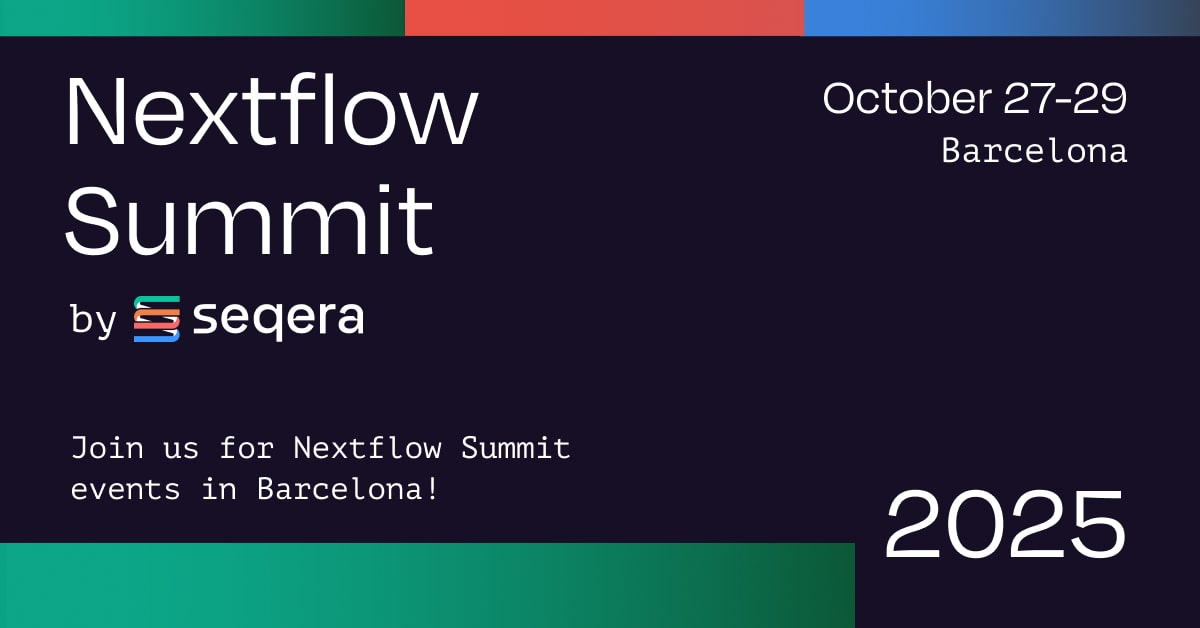
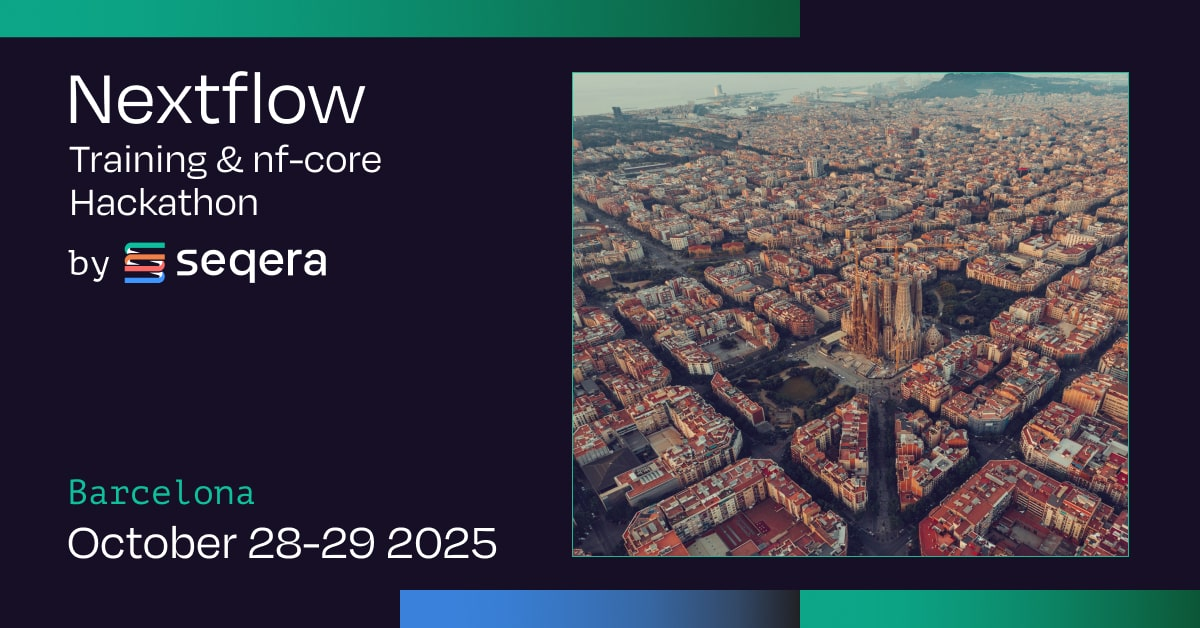
update SEO images

diff --git a/src/components/SEO/index.tsx b/src/components/SEO/index.tsx
@@ -3,6 +3,8 @@ const descDefault = `Join us at the Nextflow Summit 2025 for the latest developm
 import imgDefault from "./share-default.jpg";
 import imgBoston from "./share-boston.jpg";
 import imgBarcelona from "./share-barcelona.jpg";
+import imgVirtual from "./share-virtual.jpg";
+
 const images = [imgDefault, imgBoston, imgBarcelona];
 
 type Props = {
@@ -12,6 +14,7 @@ type Props = {
   imgUrl?: string;
   author?: string;
   bcn?: boolean;
+  virtual?: boolean;
   dynamicImage?: {
     title?: string;
     subtitle?: string;
@@ -28,6 +31,7 @@ const SEO: React.FC<Props> = ({
   author,
   dynamicImage,
   bcn,
+  virtual,
   ...props
 }) => {
   let shareImg: string;
@@ -37,6 +41,8 @@ const SEO: React.FC<Props> = ({
       shareImg = imgUrl;
   } else if (bcn) {
       shareImg = imgDefault.src;
+  } else if (virtual) {
+      shareImg = imgVirtual.src;
   } else {
       shareImg = imgDefault.src;
   }
@@ -54,7 +60,8 @@ const SEO: React.FC<Props> = ({
   const description = props.description || descDefault;
   let title = siteTitle;
   if (props.title) title = `${props.title} | ${siteTitle}`;
-  if (bcn) title += " Barcelona";
+  if (bcn) title += " Training & Hackathon";
+  if (virtual) title += " Nextflow Summit";
   const tags = [
     {
       name: `description`,
